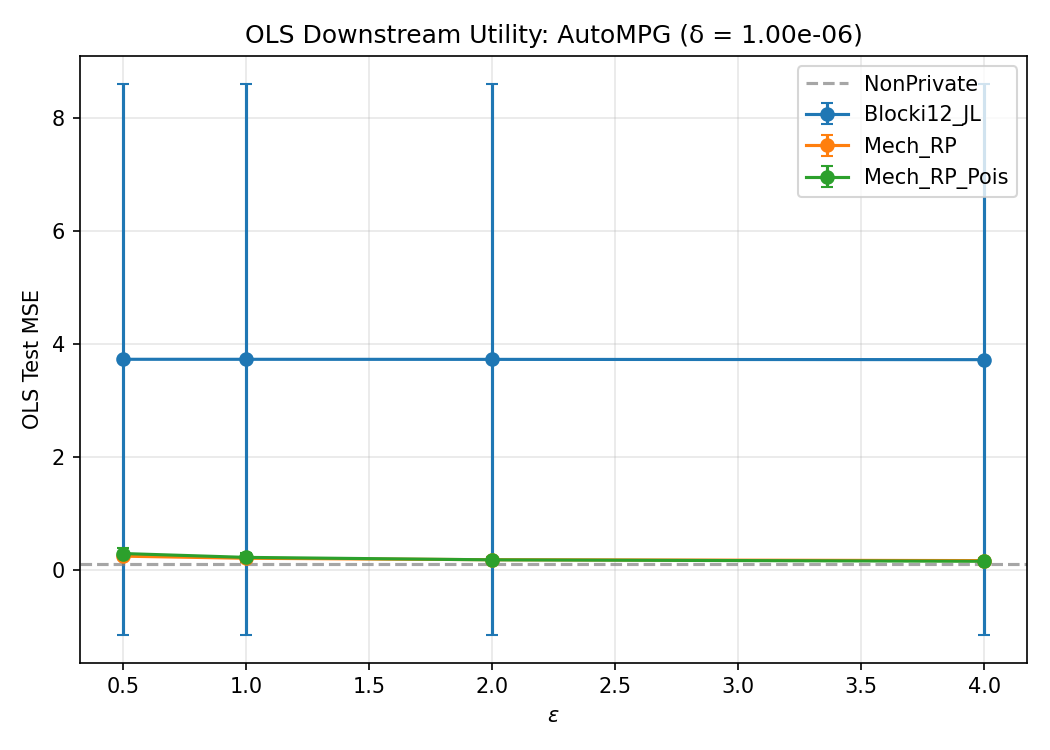
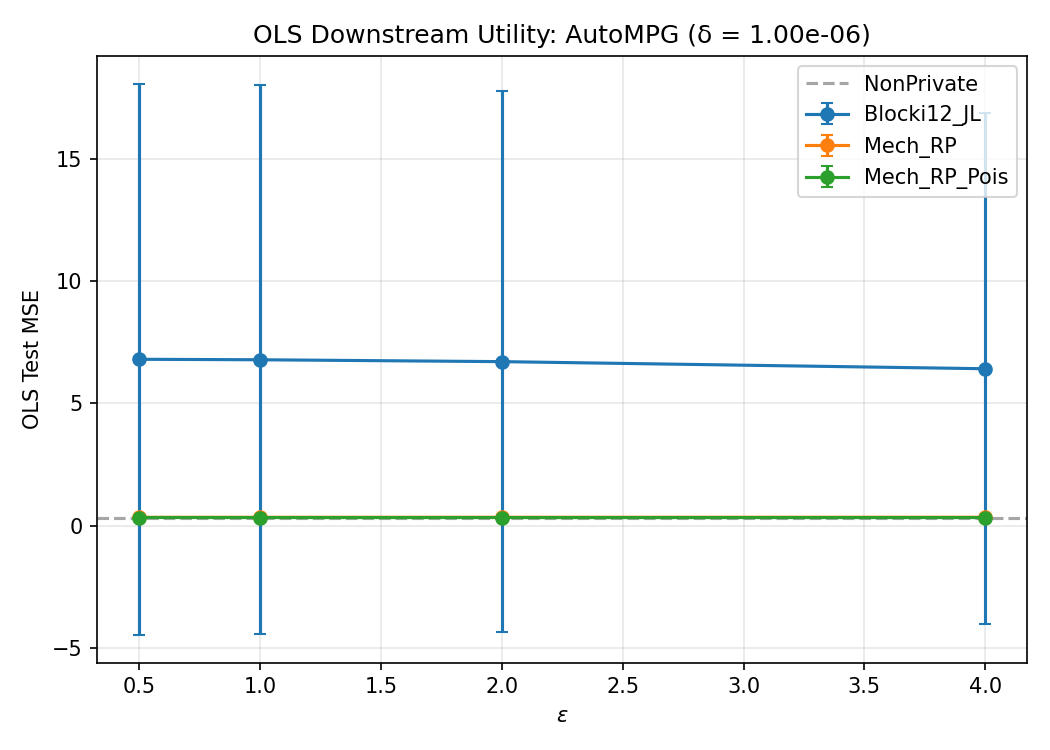
add dataset bike_sharing

diff --git a/src/rpbench/datasets/bike_sharing.py b/src/rpbench/datasets/bike_sharing.py
@@ -1,0 +1,173 @@
+"""Bike Sharing dataset adapter.
+
+**Canonical OpenML identity:** `data_id=42713` (Bike Sharing Demand — hourly,
+OpenML). We load only this dataset so runs are reproducible; row counts,
+columns, and eigen-spectra do not depend on a multi-candidate fallback chain.
+
+`DatasetBundle.meta["openml"]` stores `data_id` and a stringified copy of
+sklearn's `bunch.details` for provenance.
+
+Numeric features only; target is the first matching column in
+`TARGET_CANDIDATES` (e.g. `cnt` or `count`).
+"""
+
+from __future__ import annotations
+
+from pathlib import Path
+from typing import Any
+
+import numpy as np
+from sklearn.datasets import fetch_openml
+from sklearn.model_selection import train_test_split
+from sklearn.preprocessing import StandardScaler
+
+from rpbench.config import PreprocessSpec, SplitSpec
+from rpbench.datasets.base import DatasetAdapter, DatasetBundle
+
+
+class BikeSharingAdapter(DatasetAdapter):
+    """Dataset adapter for Bike Sharing demand regression."""
+
+    name = "bike_sharing"
+
+    #: Single OpenML dataset id (no fallback). See module docstring.
+    OPENML_DATA_ID = 42713
+
+    TARGET_CANDIDATES = ["cnt", "count", "casual", "registered", "class"]
+
+    def __init__(self, cache_dir: str = "data/cache"):
+        self.cache_dir = cache_dir
+
+    @staticmethod
+    def _clip_rows_to_l2_bound(X: np.ndarray, bound: float) -> np.ndarray:
+        if bound <= 0:
+            raise ValueError("clip_x_bound must be > 0 when clip_x is enabled")
+        norms = np.linalg.norm(X, axis=1)
+        scales = np.ones_like(norms)
+        mask = norms > bound
+        scales[mask] = bound / norms[mask]
+        return X * scales[:, np.newaxis]
+
+    def _fetch_bike_sharing(self, cache_dir: str):
+        """Fetch the single canonical OpenML dataset; see OPENML_DATA_ID."""
+        kwargs: dict[str, Any] = {
+            "data_id": self.OPENML_DATA_ID,
+            "as_frame": True,
+            "data_home": cache_dir,
+        }
+        try:
+            return fetch_openml(parser="auto", **kwargs)
+        except TypeError:
+            kwargs.pop("parser", None)
+            return fetch_openml(**kwargs)
+
+    @staticmethod
+    def _openml_provenance(bunch: Any, data_id: int) -> dict[str, Any]:
+        """JSON-friendly OpenML provenance from sklearn fetch_openml Bunch."""
+        details = getattr(bunch, "details", None)
+        details_out: dict[str, str] = {}
+        if isinstance(details, dict):
+            for k, v in details.items():
+                details_out[str(k)] = "" if v is None else str(v)
+        elif details is not None:
+            details_out["_raw"] = str(details)
+
+        return {
+            "data_id": data_id,
+            "details": details_out,
+        }
+
+    def load(self, split_spec: SplitSpec, preprocess_spec: PreprocessSpec) -> DatasetBundle:
+        cache = Path(self.cache_dir)
+        cache.mkdir(parents=True, exist_ok=True)
+
+        bunch = self._fetch_bike_sharing(str(cache))
+        df = bunch.frame  # type: ignore[union-attr]
+        df.columns = [str(c).strip().lower() for c in df.columns]
+        df = df.dropna().reset_index(drop=True)
+
+        target_col = None
+        for c in self.TARGET_CANDIDATES:
+            if c in df.columns:
+                target_col = c
+                break
+        if target_col is None:
+            raise ValueError(f"Could not locate Bike Sharing target column in {list(df.columns)}")
+
+        # Keep numeric predictors only (simple/robust Stage-1 choice).
+        numeric_df = df.select_dtypes(include=[np.number]).copy()
+        if target_col not in numeric_df.columns:
+            numeric_df[target_col] = df[target_col].astype(np.float64)
+
+        X_df = numeric_df.drop(columns=[target_col])
+        y = numeric_df[target_col].values.astype(np.float64)
+        X = X_df.values.astype(np.float64)
+
+        X_train, X_test, y_train, y_test = train_test_split(
+            X,
+            y,
+            train_size=split_spec.train_fraction,
+            random_state=split_spec.seed,
+            shuffle=True,
+        )
+
+        if preprocess_spec.scale_x:
+            scaler = StandardScaler()
+            X_train = scaler.fit_transform(X_train)
+            X_test = scaler.transform(X_test)
+
+        y_mean = y_train.mean()
+        y_std = y_train.std()
+        if y_std > 0:
+            y_train = (y_train - y_mean) / y_std
+            y_test = (y_test - y_mean) / y_std
+
+        if preprocess_spec.clip_x:
+            C_X = float(preprocess_spec.clip_x_bound)
+            X_train = self._clip_rows_to_l2_bound(X_train, C_X)
+            X_test = self._clip_rows_to_l2_bound(X_test, C_X)
+        else:
+            C_X = float(np.max(np.linalg.norm(X_train, axis=1)))
+
+        if preprocess_spec.clip_y:
+            C_Y = float(preprocess_spec.clip_y_bound)
+            if C_Y <= 0:
+                raise ValueError("clip_y_bound must be > 0 when clip_y is enabled")
+            y_train = np.clip(y_train, -C_Y, C_Y)
+            y_test = np.clip(y_test, -C_Y, C_Y)
+        else:
+            C_Y = float(np.max(np.abs(y_train)))
+
+        meta = {
+            "dataset": self.name,
+            "n_train": len(X_train),
+            "n_test": len(X_test),
+            "d": X_train.shape[1],
+            "feature_columns": list(X_df.columns),
+            "target_column": target_col,
+            "C_X": float(C_X),
+            "C_Y": float(C_Y),
+            "y_mean": float(y_mean),
+            "y_std": float(y_std),
+            "openml": self._openml_provenance(bunch, self.OPENML_DATA_ID),
+        }
+
+        return DatasetBundle(
+            X_train=X_train,
+            y_train=y_train,
+            X_test=X_test,
+            y_test=y_test,
+            meta=meta,
+        )
+
+    def public_meta(self, bundle: DatasetBundle) -> dict[str, Any]:
+        l = float(np.sqrt(bundle.meta["C_X"] ** 2 + bundle.meta["C_Y"] ** 2))
+        return {
+            "n": bundle.meta["n_train"],
+            "d": bundle.meta["d"],
+            "d_aug": bundle.meta["d"] + 1,
+            "l": l,
+            "C_X": bundle.meta["C_X"],
+            "C_Y": bundle.meta["C_Y"],
+        }
+

diff --git a/scripts/build_report.py b/scripts/build_report.py
@@ -12,7 +12,7 @@ sys.path.insert(0, str(Path(__file__).resolve().parent.parent / "src"))
 from rpbench.reporting.tables import build_summary_table
 from rpbench.reporting.figures import ols_plot_eps_vs_mse, plot_eps_vs_covariance_error
 from rpbench.reporting.summary import write_summary
-from rpbench.utils.io import load_jsonl
+from rpbench.utils.io import load_jsonl, short_timestamp
 
 
 def main() -> None:
@@ -27,30 +27,49 @@ def main() -> None:
     )
     args = parser.parse_args()
 
-    input_path = Path(args.input_root) / "demo_results.jsonl"
+    input_root = Path(args.input_root)
+    input_path = input_root / "demo_results.jsonl"
     if not input_path.exists():
-        print(f"Error: {input_path} not found")
-        sys.exit(1)
+        candidates = sorted(input_root.glob("demo_results_*.jsonl"))
+        if not candidates:
+            print(f"Error: no demo result JSONL found under {input_root}")
+            sys.exit(1)
+        input_path = candidates[-1]
+        print(f"Using latest timestamped run file: {input_path}")
 
     records = load_jsonl(input_path)
     out = Path(args.output_root)
     out.mkdir(parents=True, exist_ok=True)
+    ts = short_timestamp()
 
-    csv_path = out / "summary_table.csv"
+    csv_path = out / f"summary_table_{ts}.csv"
     build_summary_table(records, csv_path)
     print(f"Summary table: {csv_path}")
 
-    ols_fig_path = out / "ols_plot_eps_vs_mse.png"
+    ols_fig_path = out / f"ols_plot_eps_vs_mse_{ts}.png"
     ols_plot_eps_vs_mse(records, ols_fig_path)
     print(f"OLS figure: {ols_fig_path}")
 
-    covariance_fig_path = out / "covariance_plot_eps_vs_error.png"
+    covariance_fig_path = out / f"covariance_plot_eps_vs_error_{ts}.png"
     plot_eps_vs_covariance_error(records, covariance_fig_path)
     print(f"Covariance figure: {covariance_fig_path}")
 
-    md_path = out / "demo_summary.md"
+    md_path = out / f"demo_summary_{ts}.md"
     write_summary(records, md_path, ols_fig_path.name, covariance_fig_path.name, csv_path.name)
     print(f"Summary: {md_path}")
+
+    # Also refresh stable "latest" names for convenience.
+    build_summary_table(records, out / "summary_table.csv")
+    ols_plot_eps_vs_mse(records, out / "ols_plot_eps_vs_mse.png")
+    plot_eps_vs_covariance_error(records, out / "covariance_plot_eps_vs_error.png")
+    write_summary(
+        records,
+        out / "demo_summary.md",
+        "ols_plot_eps_vs_mse.png",
+        "covariance_plot_eps_vs_error.png",
+        "summary_table.csv",
+    )
+    print("Updated latest pointers: summary_table.csv, ols_plot_eps_vs_mse.png, covariance_plot_eps_vs_error.png, demo_summary.md")
 
 
 if __name__ == "__main__":

diff --git a/scripts/run_demo.py b/scripts/run_demo.py
@@ -11,7 +11,7 @@ sys.path.insert(0, str(Path(__file__).resolve().parent.parent / "src"))
 
 from rpbench.config import load_config
 from rpbench.runners.run_demo import run_demo
-from rpbench.utils.io import save_jsonl
+from rpbench.utils.io import save_jsonl, short_timestamp
 
 
 def main() -> None:
@@ -39,9 +39,14 @@ def main() -> None:
 
     records = run_demo(cfg)
 
-    out_path = Path(cfg.output_root) / "demo_results.jsonl"
-    save_jsonl(records, out_path)
-    print(f"\nSaved {len(records)} records to {out_path}")
+    ts = short_timestamp()
+    out_dir = Path(cfg.output_root)
+    out_path_ts = out_dir / f"demo_results_{ts}.jsonl"
+    out_path_latest = out_dir / "demo_results.jsonl"
+    save_jsonl(records, out_path_ts)
+    save_jsonl(records, out_path_latest)
+    print(f"\nSaved {len(records)} records to {out_path_ts}")
+    print(f"Updated latest pointer: {out_path_latest}")
 
 
 if __name__ == "__main__":

diff --git a/src/rpbench/runners/run_demo.py b/src/rpbench/runners/run_demo.py
@@ -9,6 +9,7 @@ import numpy as np
 
 from rpbench.config import DemoConfig, PrivacySpec
 from rpbench.datasets.autompg import AutoMPGAdapter
+from rpbench.datasets.bike_sharing import BikeSharingAdapter
 from rpbench.datasets.base import DatasetBundle
 from rpbench.mechanisms.base import Mechanism
 from rpbench.mechanisms.rp_ndis import MechRP, MechRPPois
@@ -27,6 +28,7 @@ MECHANISM_REGISTRY: dict[str, type] = {
 
 DATASET_REGISTRY: dict[str, type] = {
     "autompg": AutoMPGAdapter,
+    "bike_sharing": BikeSharingAdapter,
 }
 
 

diff --git a/src/rpbench/utils/io.py b/src/rpbench/utils/io.py
@@ -3,6 +3,7 @@
 from __future__ import annotations
 
 import json
+from datetime import datetime
 import uuid
 from pathlib import Path
 from typing import Any
@@ -10,6 +11,11 @@ from typing import Any
 
 def generate_run_id() -> str:
     return uuid.uuid4().hex[:12]
+
+
+def short_timestamp() -> str:
+    """Return compact timestamp for file suffixes."""
+    return datetime.now().strftime("%Y%m%d-%H%M%S")
 
 
 def save_jsonl(records: list[dict[str, Any]], path: str | Path) -> None:

diff --git a/README.md b/README.md
@@ -2,9 +2,8 @@
 
 RP-family differential privacy benchmark — WF-001 Stage 1.
 
-Compares **Mech_RP** (NDIS paper, arxiv 2309.01243) and **Blocki12_JL**
-(Blocki et al. 2012, arxiv 1204.2136) on the AutoMPG dataset using
-OLS as the downstream task.
+Compares RP-family mechanisms on regression datasets (currently `autompg`
+and `bike_sharing`) using OLS as the downstream task.
 
 ## Quick start (local)
 
@@ -17,8 +16,11 @@ pip install -r requirements.txt
 # 2. (Alternative) Use the install script
 bash scripts/local_scripts/install_local.sh
 
-# 3. Run the demo benchmark
+# 3. Run the demo benchmark (AutoMPG)
 python scripts/run_demo.py --config configs/demo/autompg.yaml
+
+# 3b. Run Bike Sharing benchmark
+python scripts/run_demo.py --config configs/demo/bike_sharing.yaml
 
 # 4. Build the report
 python scripts/build_report.py \
@@ -43,8 +45,11 @@ module load anaconda
 eval "$(conda shell.bash hook)"
 conda activate /tmp/python-venv/rp_benchmark_venv
 
-# 3. Run the demo
+# 3. Run the demo (AutoMPG)
 python scripts/run_demo.py --config configs/demo/autompg.yaml
+
+# 3b. Run Bike Sharing benchmark
+python scripts/run_demo.py --config configs/demo/bike_sharing.yaml
 
 # 4. Build the report
 python scripts/build_report.py --input-root data/outputs/runs --output-root data/outputs/reports
@@ -67,25 +72,29 @@ the kernel named **Python (rpbench)** in Jupyter and run the cells top-to-bottom
 
 ## What the demo does
 
-1. Loads and preprocesses AutoMPG (7 features, `mpg` target).
+1. Loads and preprocesses the configured dataset (`autompg` or `bike_sharing`).
 2. For each mechanism × epsilon × trial seed:
    - Calibrates the mechanism under (ε, δ)-DP.
    - Uses the same explicit projection dimension `r` for both mechanisms.
    - Produces a private release of X^T X and X^T y.
    - Fits OLS from the release.
    - Evaluates test MSE and relative Frobenius error.
-3. Saves row-level JSONL to `data/outputs/runs/demo_results.jsonl`.
-4. The report builder aggregates results into a CSV table, PNG figure
-   (ε vs test MSE), and markdown summary.
+3. Saves row-level JSONL to timestamped files under `data/outputs/runs/`, e.g.
+   `demo_results_YYYYMMDD-HHMMSS.jsonl` (and updates `demo_results.jsonl` as latest pointer).
+4. The report builder aggregates results into timestamped CSV/PNG/MD outputs under
+   `data/outputs/reports/` (and also updates stable latest filenames).
 
 ## Configuration
 
-See `configs/demo/autompg.yaml` for the demo contract:
+See configs under `configs/demo/`:
 
-- **Mechanisms**: Mech_RP, Blocki12_JL
+- `autompg.yaml`
+- `bike_sharing.yaml`
+
+- **Mechanisms**: Mech_RP, Mech_RP_Pois, Blocki12_JL
 - **Epsilons**: 0.5, 1.0, 2.0, 4.0
 - **Delta**: 1/n²
-- **Shared sketch dimension**: r = 96
+- **Default sketch dimension**: r = 50
 - **Seed batch**: fixed root seed 0, expanded to 5 trial seeds
 - **Split**: 80/20 train/test, seed 42
 
@@ -113,3 +122,4 @@ rp-benchmark/
 - NDIS paper: arxiv 2309.01243 (`docs/notes/ndis-paper.pdf`)
 - Blocki et al. 2012: arxiv 1204.2136
 - AutoMPG: UCI ML Repository, data_id=196
+- Bike Sharing: OpenML Bike Sharing task (hourly/daily variants)

diff --git a/reports/demo_summary.md b/reports/demo_summary.md
@@ -1,6 +1,6 @@
 # WF-001 Demo Run Summary
 
-**Dataset:** autompg  
+**Dataset:** bike_sharing  
 **Mechanisms:** Blocki12_JL, Mech_RP, Mech_RP_Pois  
 **Task:** OLSFromRelease  
 **Epsilon grid:** [0.5, 1.0, 2.0, 4.0]  
@@ -10,7 +10,7 @@
 **Trial indices:** [0, 1, 2, 3, 4]  
 **Total records:** 61  
 
-**Non-private baseline test MSE:** 0.109278
+**Non-private baseline test MSE:** 0.305058
 
 ## Results
 
